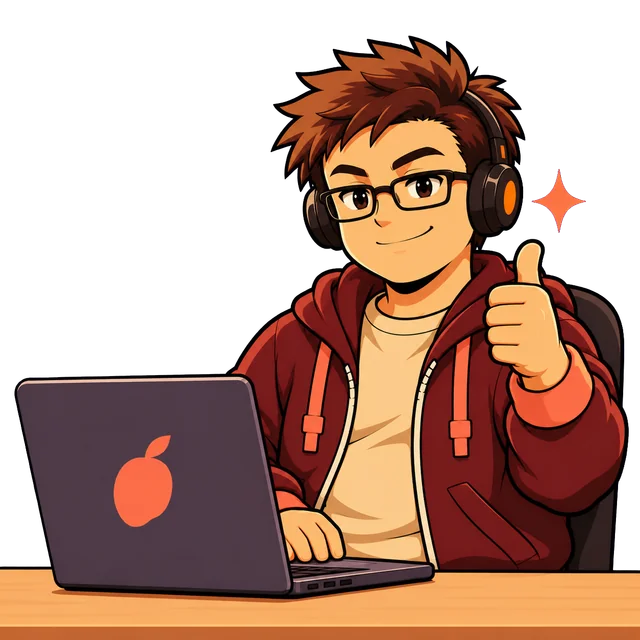
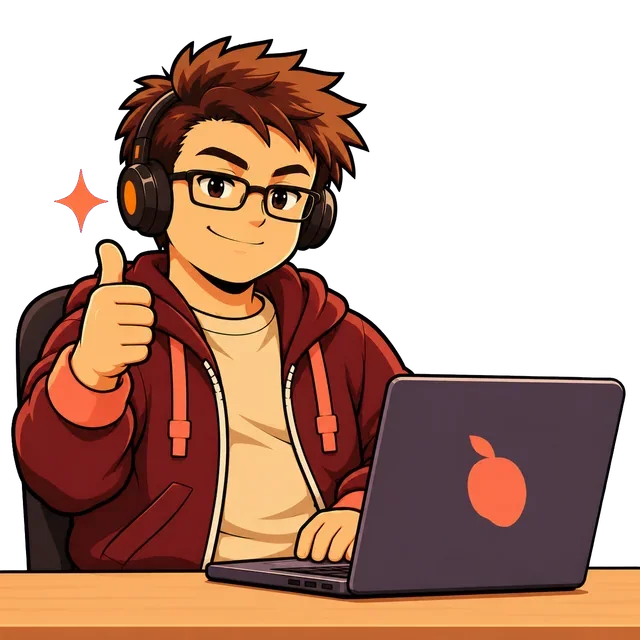
docs: Thiago faces Cadija in the README
Thiago sits on the left and Cadija on the right in both picture rows,
as on the website. His desk art is mirrored so he faces her, since
GitHub drops the CSS flip the website uses. The intro shows Cadija
pointing at the plan checklist and calls her the "secret" agent; the
baton pose moves to the SPEC and PLAN section.

diff --git a/README.pt-BR.md b/README.pt-BR.md
@@ -34,8 +34,8 @@ Quem chega ao guia pela primeira vez lê de cima para baixo: Thiago e Cadija mos
       Decide o que será construído e aprova cada passo.
     </td>
     <td align="center" width="50%">
-      <img src="https://raw.githubusercontent.com/thiagocajadev/spec-driven-guide/main/docs/img/characters/cadija-pointing.webp" alt="Cadija, a agente, apontando o caminho" width="220" height="220"><br>
-      <strong>Cadija</strong>, a agente<br>
+      <img src="https://raw.githubusercontent.com/thiagocajadev/spec-driven-guide/main/docs/img/characters/cadija-screen-planning.webp" alt="Cadija, a agente, apontando o checklist do plano" width="220" height="220"><br>
+      <strong>Cadija</strong>, a agente “secreta”<br>
       Segue o guia: escreve a spec, planeja, codifica e testa, e para em cada ponto de aprovação.
     </td>
   </tr>
@@ -83,8 +83,8 @@ O agente propõe a SPEC a partir do contexto que ele já tem do projeto, e você
 
 <!-- prettier-ignore-start -->
 <p align="center">
-  <img src="https://raw.githubusercontent.com/thiagocajadev/spec-driven-guide/main/docs/img/characters/cadija-screen-planning.webp" alt="Cadija segurando o plano como checklist" width="200" height="200">
   <img src="https://raw.githubusercontent.com/thiagocajadev/spec-driven-guide/main/docs/img/characters/dev-desk-approving.webp" alt="Thiago aprovando com o polegar para cima" width="200" height="200">
+  <img src="https://raw.githubusercontent.com/thiagocajadev/spec-driven-guide/main/docs/img/characters/cadija-pointing.webp" alt="Cadija apontando o caminho com o bastão" width="200" height="200">
 </p>
 <!-- prettier-ignore-end -->
 

diff --git a/README.md b/README.md
@@ -34,8 +34,8 @@ A developer meeting the guide for the first time reads from the top: Thiago and 
       Decides what to build and approves each step.
     </td>
     <td align="center" width="50%">
-      <img src="https://raw.githubusercontent.com/thiagocajadev/spec-driven-guide/main/docs/img/characters/cadija-pointing.webp" alt="Cadija, the agent, pointing the way" width="220" height="220"><br>
-      <strong>Cadija</strong>, the agent<br>
+      <img src="https://raw.githubusercontent.com/thiagocajadev/spec-driven-guide/main/docs/img/characters/cadija-screen-planning.webp" alt="Cadija, the agent, pointing at the plan checklist" width="220" height="220"><br>
+      <strong>Cadija</strong>, the “secret” agent<br>
       Follows the guide: writes the spec, plans, codes and tests, and stops at every gate.
     </td>
   </tr>
@@ -83,8 +83,8 @@ The agent proposes the SPEC from the context it already holds about the project,
 
 <!-- prettier-ignore-start -->
 <p align="center">
-  <img src="https://raw.githubusercontent.com/thiagocajadev/spec-driven-guide/main/docs/img/characters/cadija-screen-planning.webp" alt="Cadija holding the plan as a checklist" width="200" height="200">
   <img src="https://raw.githubusercontent.com/thiagocajadev/spec-driven-guide/main/docs/img/characters/dev-desk-approving.webp" alt="Thiago approving with a thumbs up" width="200" height="200">
+  <img src="https://raw.githubusercontent.com/thiagocajadev/spec-driven-guide/main/docs/img/characters/cadija-pointing.webp" alt="Cadija pointing the way with a baton" width="200" height="200">
 </p>
 <!-- prettier-ignore-end -->
 
